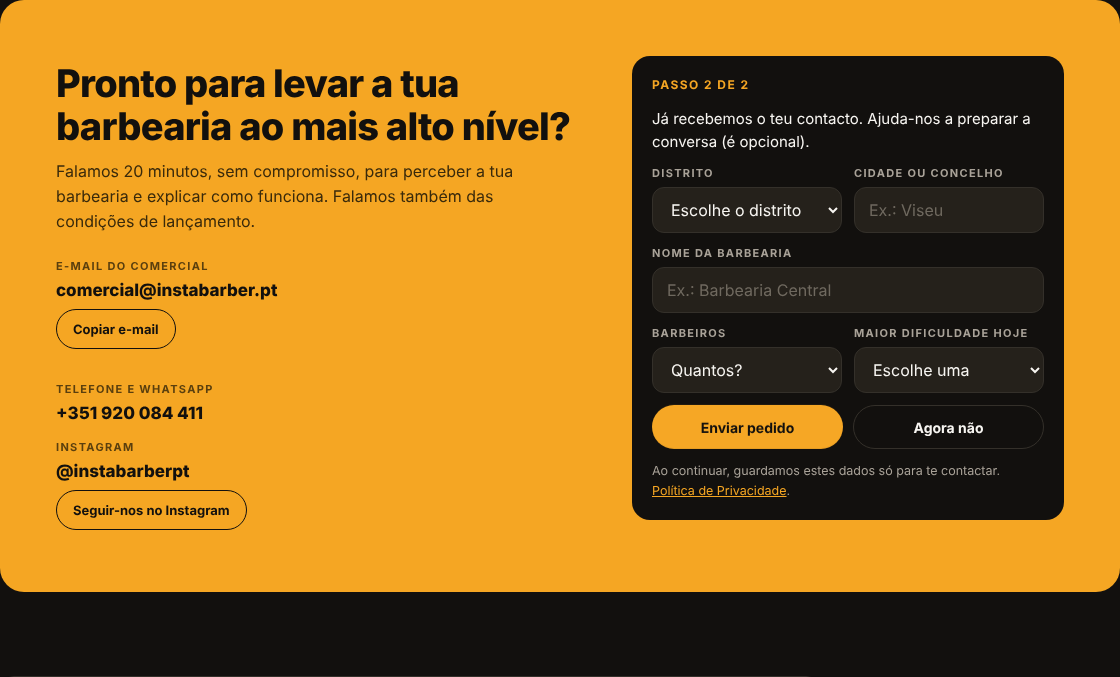
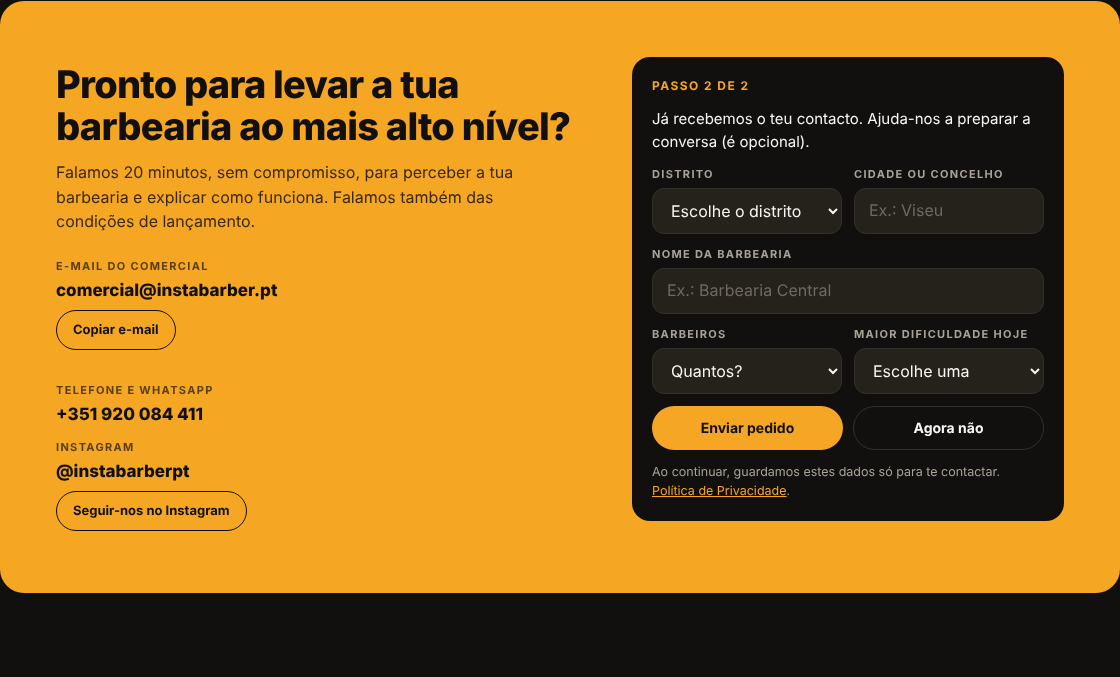
Landing: topo com três chamadas (D-78)
Claude-Session: https://claude.ai/code/session_01NzqEVh27JN9VYLXgeANEsa

diff --git a/landing/index.html b/landing/index.html
@@ -195,14 +195,9 @@ details .ans a { color: var(--gold); }
 .form .err { margin: 0; color: #FFB4A8; font-size: 14px; font-weight: 600; }
 
 /* atalhos no topo */
-.quick { display: grid; grid-template-columns: minmax(0, 1fr); gap: 10px; margin: 22px 0 6px; max-width: 560px; }
-.quick a { text-decoration: none; display: grid; gap: 2px; padding: 14px 18px; border-radius: 16px; border: 1px solid var(--line); background: var(--ink-2); transition: border-color .15s ease, transform .15s ease; }
-.quick a:hover { border-color: var(--gold); transform: translateY(-1px); }
-.quick a.main { background: var(--gold); border-color: var(--gold); color: var(--ink); }
-.quick b { font-size: 16px; line-height: 1.25; }
-.quick span { font-size: 13px; color: var(--mute); }
-.quick a.main span { color: #3A2A0B; }
-.quick .go { font-weight: 800; }
+.calc-link { margin: 16px 0 0; font-size: 15px; }
+.calc-link a { color: var(--gold); font-weight: 700; text-decoration: underline; text-underline-offset: 4px; }
+.calc-link a:hover { color: #FFB63D; }
 
 /* demonstração e calculadora */
 .box { grid-template-columns: minmax(0, 1fr); align-content: start; min-width: 0; background: var(--ink-2); border: 1px solid var(--line); border-radius: 24px; padding: clamp(18px, 3vw, 32px); display: grid; gap: 20px; }
@@ -386,15 +381,11 @@ footer .links a:hover { color: var(--gold); }
         <p class="eyebrow eyebrow-pt"><svg class="flag" viewBox="0 0 30 20" width="24" height="16" role="img" aria-label="Bandeira de Portugal"><rect width="30" height="20" rx="3" fill="#C8102E"/><rect width="12" height="20" rx="3" fill="#046A38"/><rect x="9" width="3" height="20" fill="#046A38"/><circle cx="12" cy="10" r="4.2" fill="#FFD100"/><circle cx="12" cy="10" r="2.4" fill="#C8102E"/></svg><span>100% Feito em Portugal</span></p>
         <h1>Tudo o que uma barbearia precisa, <span class="gold">num só sistema.</span></h1>
         <p class="lead">Agenda, clientes, equipa e financeiro, com uma página de marcação que tem a marca da tua barbearia. E o que mais ninguém junta: mostra quem deixou de aparecer, quanto dinheiro isso representa e escreve a mensagem que o traz de volta.</p>
-        <nav class="quick" aria-label="Atalhos">
-            <a class="main" href="#calculadora"><b>Vê quanto dinheiro estás a perder todos os meses</b><span>Calculadora grátis, em 20 segundos <span class="go">→</span></span></a>
-            <a href="#demo"><b>Experimenta o InstaBarber já</b><span>Marca, recupera clientes e dá selos, sem registo <span class="go">→</span></span></a>
-            <a href="#planos"><b>Quanto custa?</b><span>Desde 0,82 € por dia, IVA incluído, sem fidelização <span class="go">→</span></span></a>
-          </nav>
         <div class="cta-row">
-          <a class="btn btn-gold" href="#contacto">Quero experimentar</a>
-          <a class="btn btn-line" href="#planos">Ver planos</a>
+          <a class="btn btn-gold" href="#demo">Experimentar a demo</a>
+          <a class="btn btn-line" href="#contacto">Falar connosco</a>
         </div>
+        <p class="calc-link"><a href="#calculadora">Calcula quanto estás a perder por mês <span aria-hidden="true">→</span></a></p>
         <p class="note">Sem comissões sobre clientes. Sem custo por mensagem. Desde 0,82 € por dia, IVA incluído.</p>
       </div>
 

diff --git a/landing/publicar/index.html b/landing/publicar/index.html
@@ -204,14 +204,9 @@ details .ans a { color: var(--gold); }
 .form .err { margin: 0; color: #FFB4A8; font-size: 14px; font-weight: 600; }
 
 /* atalhos no topo */
-.quick { display: grid; grid-template-columns: minmax(0, 1fr); gap: 10px; margin: 22px 0 6px; max-width: 560px; }
-.quick a { text-decoration: none; display: grid; gap: 2px; padding: 14px 18px; border-radius: 16px; border: 1px solid var(--line); background: var(--ink-2); transition: border-color .15s ease, transform .15s ease; }
-.quick a:hover { border-color: var(--gold); transform: translateY(-1px); }
-.quick a.main { background: var(--gold); border-color: var(--gold); color: var(--ink); }
-.quick b { font-size: 16px; line-height: 1.25; }
-.quick span { font-size: 13px; color: var(--mute); }
-.quick a.main span { color: #3A2A0B; }
-.quick .go { font-weight: 800; }
+.calc-link { margin: 16px 0 0; font-size: 15px; }
+.calc-link a { color: var(--gold); font-weight: 700; text-decoration: underline; text-underline-offset: 4px; }
+.calc-link a:hover { color: #FFB63D; }
 
 /* demonstração e calculadora */
 .box { grid-template-columns: minmax(0, 1fr); align-content: start; min-width: 0; background: var(--ink-2); border: 1px solid var(--line); border-radius: 24px; padding: clamp(18px, 3vw, 32px); display: grid; gap: 20px; }
@@ -398,15 +393,11 @@ footer .links a:hover { color: var(--gold); }
         <p class="eyebrow eyebrow-pt"><svg class="flag" viewBox="0 0 30 20" width="24" height="16" role="img" aria-label="Bandeira de Portugal"><rect width="30" height="20" rx="3" fill="#C8102E"/><rect width="12" height="20" rx="3" fill="#046A38"/><rect x="9" width="3" height="20" fill="#046A38"/><circle cx="12" cy="10" r="4.2" fill="#FFD100"/><circle cx="12" cy="10" r="2.4" fill="#C8102E"/></svg><span>100% Feito em Portugal</span></p>
         <h1>Tudo o que uma barbearia precisa, <span class="gold">num só sistema.</span></h1>
         <p class="lead">Agenda, clientes, equipa e financeiro, com uma página de marcação que tem a marca da tua barbearia. E o que mais ninguém junta: mostra quem deixou de aparecer, quanto dinheiro isso representa e escreve a mensagem que o traz de volta.</p>
-        <nav class="quick" aria-label="Atalhos">
-            <a class="main" href="#calculadora"><b>Vê quanto dinheiro estás a perder todos os meses</b><span>Calculadora grátis, em 20 segundos <span class="go">→</span></span></a>
-            <a href="#demo"><b>Experimenta o InstaBarber já</b><span>Marca, recupera clientes e dá selos, sem registo <span class="go">→</span></span></a>
-            <a href="#planos"><b>Quanto custa?</b><span>Desde 0,82 € por dia, IVA incluído, sem fidelização <span class="go">→</span></span></a>
-          </nav>
         <div class="cta-row">
-          <a class="btn btn-gold" href="#contacto">Quero experimentar</a>
-          <a class="btn btn-line" href="#planos">Ver planos</a>
+          <a class="btn btn-gold" href="#demo">Experimentar a demo</a>
+          <a class="btn btn-line" href="#contacto">Falar connosco</a>
         </div>
+        <p class="calc-link"><a href="#calculadora">Calcula quanto estás a perder por mês <span aria-hidden="true">→</span></a></p>
         <p class="note">Sem comissões sobre clientes. Sem custo por mensagem. Desde 0,82 € por dia, IVA incluído.</p>
       </div>
 

diff --git a/DECISOES.md b/DECISOES.md
@@ -375,3 +375,6 @@ A secção de contacto ganha «Seguir-nos no Instagram» (@instabarberpt, abre e
 
 ## D-77 · Revisão final da landing (22/10/2026)
 Teste completo (desktop 1440 e telemóvel 390): sem erros na consola, sem rolagem lateral, âncoras e formulário a funcionar. Alterações: «Dashboard do dia» passa a «Painel do dia»; o rótulo «Gestor» passa a «Dono»; a comparação ganha a linha «Poupas, por mês» (37,41 €, 448,92 € por ano); o título da página publicada (`landing/publicar`) passa a «InstaBarber · Agenda, clientes e fidelização para barbearias» (melhor para pesquisa e separadores).
+
+## D-78 · Topo da landing com três chamadas (22/10/2026)
+O topo tinha cinco chamadas (três caixas e dois botões) e dois botões com o mesmo verbo para destinos diferentes. Passa a: botão principal «Experimentar a demo» (#demo), secundário «Falar connosco» (#contacto) e ligação «Calcula quanto estás a perder por mês» (#calculadora). Removidas as três caixas de atalhos e o CSS respetivo. «Ver planos» fica no corpo da página.
